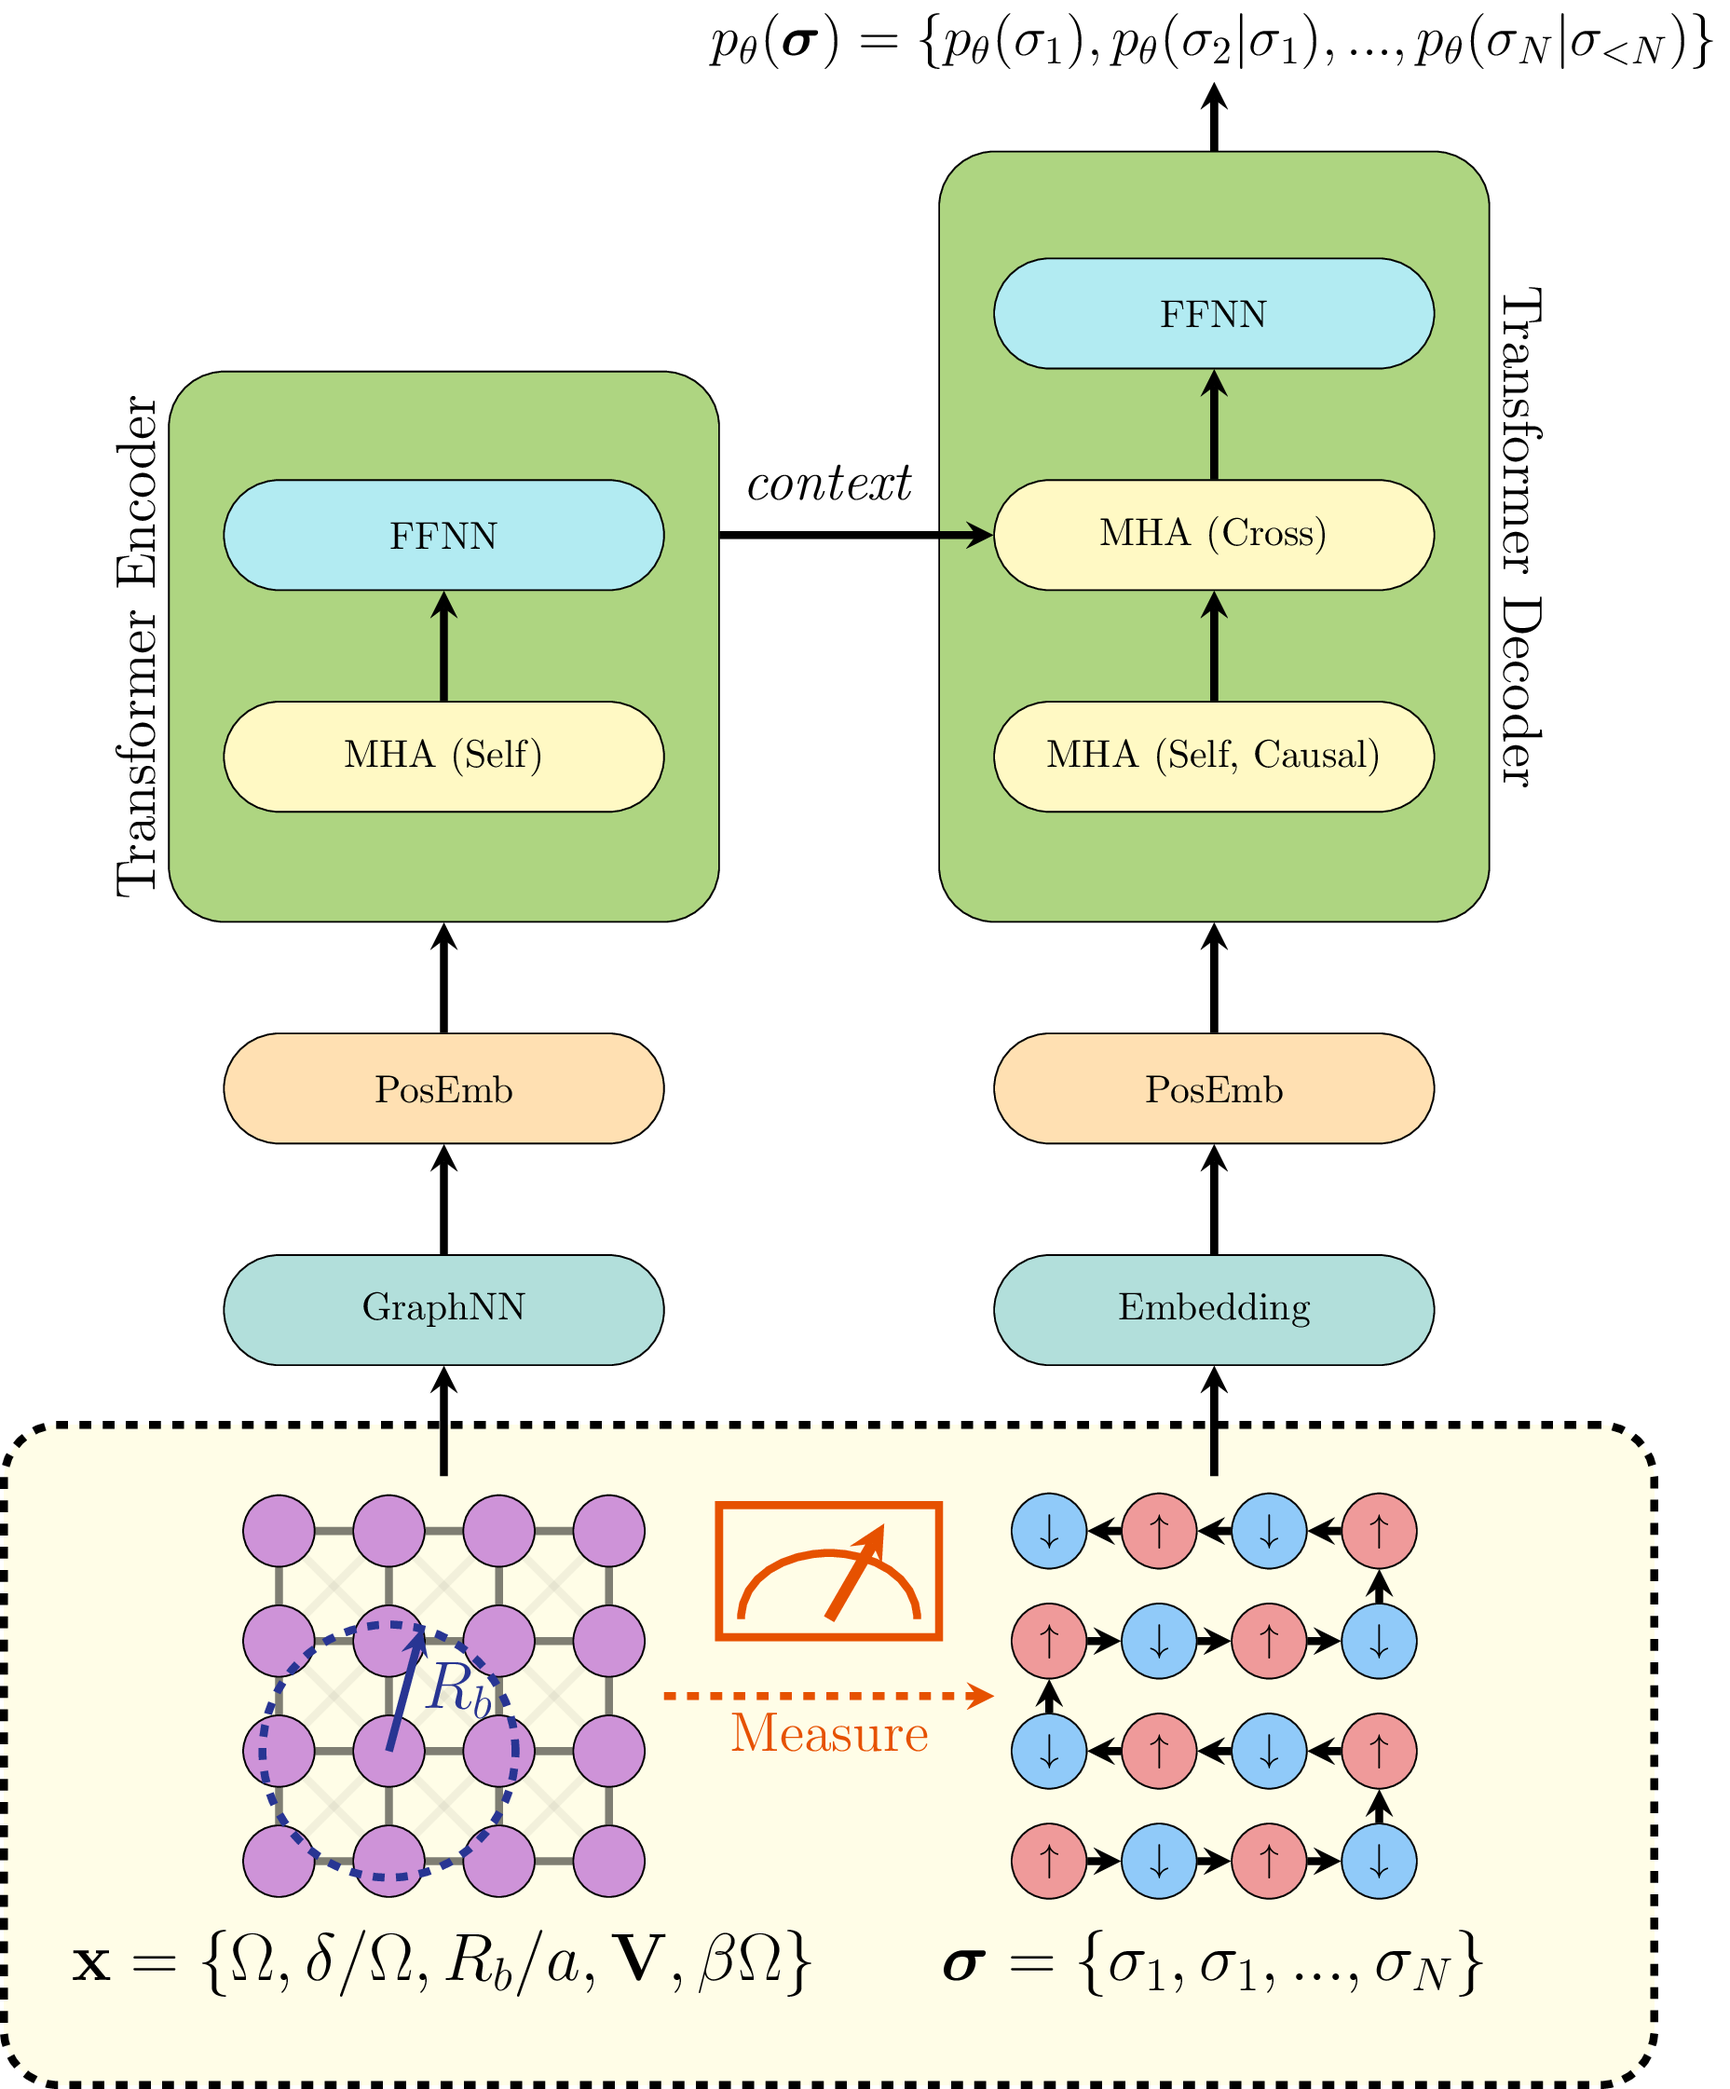
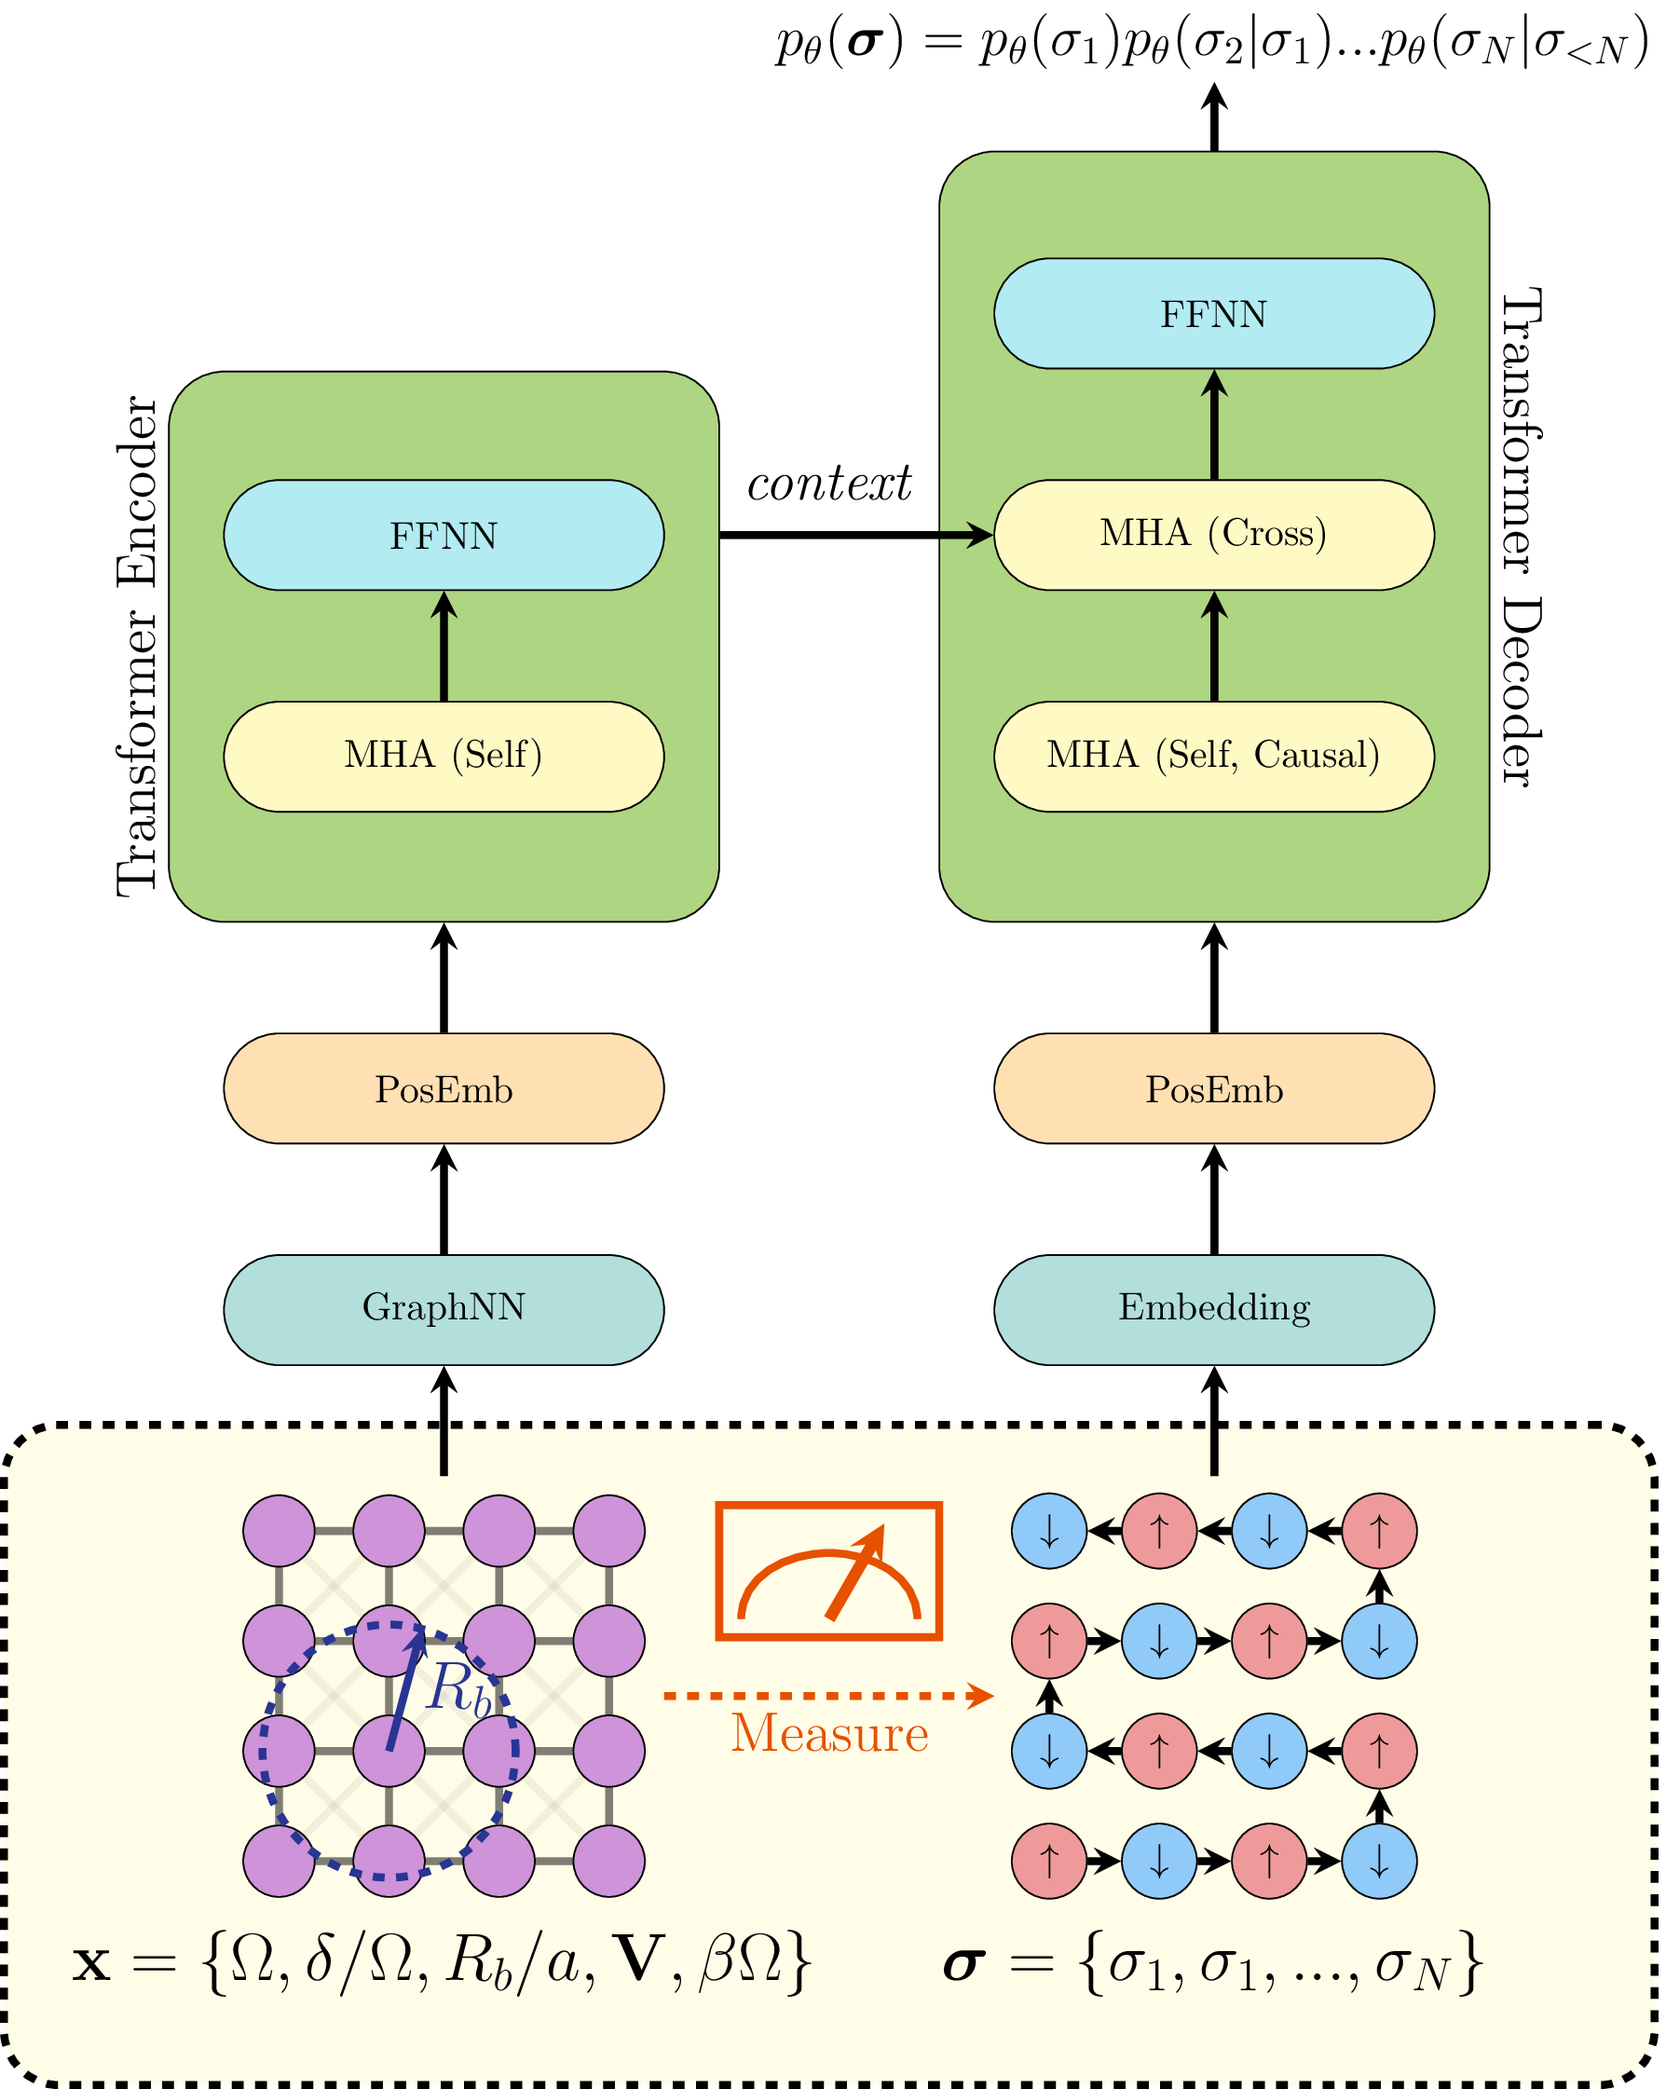
Update typo in architecture diagram

diff --git a/docs/resource/architecture.tex b/docs/resource/architecture.tex
@@ -139,7 +139,7 @@
     \node [align=center,anchor=south, rectangle, fill=MCyan100, draw, rounded corners=0.5cm, minimum height=1cm, minimum width=4cm] (dec_ffnn) at ($(dec_mha_cross.north) + (0,1)$) {FFNN};
 
 
-    \node (output2) at($(tfdec.north) + (0,1)$) {\Large $p_\theta(\boldsymbol{\sigma}) = \{ p_\theta(\sigma_1), p_\theta(\sigma_2|\sigma_1),...,p_\theta(\sigma_N|\sigma_{<N}) \}$};
+    \node (output2) at($(tfdec.north) + (0,1)$) {\Large $p_\theta(\boldsymbol{\sigma}) = p_\theta(\sigma_1)p_\theta(\sigma_2|\sigma_1)...p_\theta(\sigma_N|\sigma_{<N})$};
 
     \draw [-stealth,line width=2] (input2) -- (dec_emb);
     \draw [-stealth,line width=2] (dec_emb) -- (dec_posemb);
